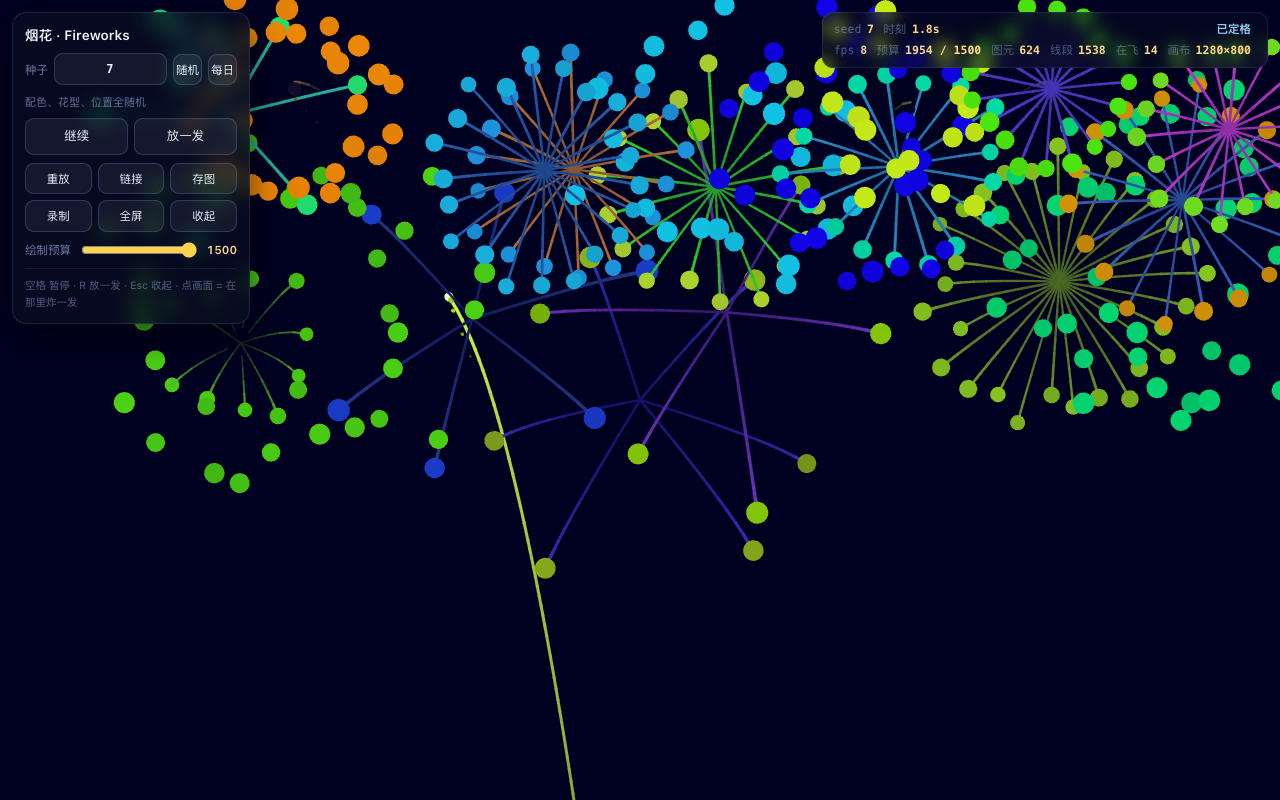
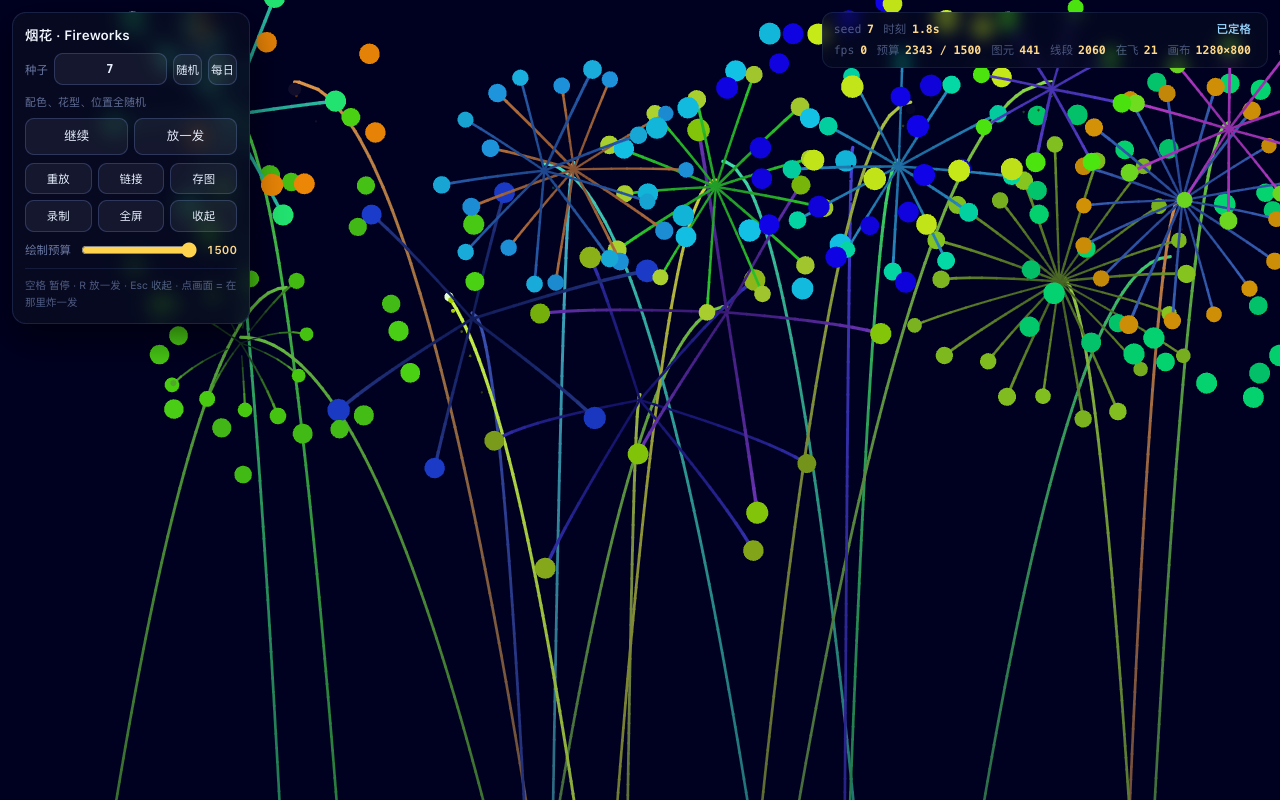
fix: 上升尾迹别在爆开那一刻抹掉 —— 只收爆点粒子，尾迹照旧挂着慢慢熄
上一版把发射尾迹的 fadeTime 从 3.4s 切成 0.35s，观感成了"一爆炸尾迹就没了"。
那道烟迹是弹体飞过的痕迹，该留着慢慢熄 —— 撤回这一处，只保留真正的"爆点粒子"
那两处改动（火花/余烬寿命收短、删掉"爆炸后继续撒余烬"）。

- src/firework.js: 去掉 burst() 里那句 this.trail.fadeTime = 0.35；理由写进注释
  （试过、不好，别再改回去）
- tools/render_smoke.js: 密度自检的口径改成 show.lastGeos（折线按**段数**算，与预算
  和 HUD 一致）—— 之前量的是 frameGeos.length（图元**个数**），两条折线能差二三十倍，
  文档表里的数字和 HUD 对不上。峰值门槛随之放宽到 1.2 倍（60 秒里的单帧最大值抖动大，
  均值仍要求 1.5 倍）
- docs/design.md: 预算表换成段数口径实测（450 → 均值 218 / 峰值 991）；「余韵别拖
  太久」改成两处改动 + 一段"唯一故意留着的是发射尾迹"；同一时刻对照表更新（改后：
  5 尾迹 + 1 余烬、火花 0）；代价改成"元素 37 → 30 个但每发更大，绘制开销没变低"
- docs/preview/ui.png: 保留尾迹后重拍（--step 110，炸开正盛 + 升空尾迹都在）

diff --git a/tools/render_smoke.js b/tools/render_smoke.js
@@ -71,7 +71,12 @@ for (const r of rows) {
 
 /* ------------------------------------------------ 1.5) 绘制预算真的会改变画面密度 */
 
-/** 跑一段，返回图元峰值与均值。 */
+/**
+ * 跑一段，返回"绘制开销"的峰值与均值。
+ * 口径必须是 show.lastGeos（折线按**段数**算）而不是 frameGeos.length（那是图元
+ * **个数**）—— 预算与 HUD 的「预算」一行用的都是段数口径，两条折线能差出二三十倍，
+ * 之前这里量错了对象，表里的数字和 HUD 对不上。
+ */
 function densityOf(budget, secs) {
   const show = new FW.show.Show(924, 691, new FW.rng.Random(7), { maxGeos: budget });
   FW.show.build(show);
@@ -79,8 +84,8 @@ function densityOf(budget, secs) {
   let peak = 0, sum = 0;
   for (let i = 0; i < n; i++) {
     show.step(i === 0 ? 0 : 1 / 60);
-    peak = Math.max(peak, show.frameGeos.length);
-    sum += show.frameGeos.length;
+    peak = Math.max(peak, show.lastGeos);
+    sum += show.lastGeos;
   }
   return { peak, avg: sum / n };
 }
@@ -92,7 +97,9 @@ const budgetProblems = [];
 if (!(big.avg > small.avg * 1.5)) {
   budgetProblems.push(`调大预算没让画面变密：均值 ${small.avg.toFixed(0)} -> ${big.avg.toFixed(0)}`);
 }
-if (!(big.peak > small.peak * 1.4)) {
+// 峰值只要求"明显更高"：它是 60 秒里的单帧最大值，两种子撞在一起齐射就窜一下，
+// 单种子抖动大（实测 1.3~1.6 倍）；均值才是稳定的信号（1.5 倍以上）。
+if (!(big.peak > small.peak * 1.2)) {
   budgetProblems.push(`调大预算没让峰值变高：${small.peak} -> ${big.peak}`);
 }
 if (!(small.avg > 0)) budgetProblems.push('预算 450 时画面是空的');

diff --git a/dist/fireworks.html b/dist/fireworks.html
@@ -979,10 +979,8 @@ setTimeout(function () {
   Firework.prototype.burst = function () {
     this.phase = 'burst';
     this.rocket.alive = false;              // 弹体到此为止（尾迹不再喂点，自己熄灭）
-    // 上升尾迹的默认 fadeTime 是 3.4s（够盖住 1.5s 的上升段，整条拖尾都能看见），
-    // 但那意味着爆完之后天上还挂着一条慢慢熄的尾迹。这里一爆就把它切成快熄：
-    // 于是"炸开之后大约半秒，这一发就什么都不剩了"。
-    this.trail.fadeTime = 0.35;
+    // 上升尾迹**照旧挂着慢慢熄**（Trail 默认 fadeTime 3.4s）：那是弹体留下的一道烟迹，
+    // 是这一发"来过"的痕迹，别在爆开那一刻把它抹掉（试过切成 0.35s，观感像尾迹突然消失）。
     var rng = this.rng, spec = this.spec, pal = this.palette;
     var count = (this.count !== null) ? this.count : rng.randint(spec.count[0], spec.count[1]);
     // 画布太满就少炸几颗，别把帧率拖垮

diff --git a/docs/index.html b/docs/index.html
@@ -979,10 +979,8 @@ setTimeout(function () {
   Firework.prototype.burst = function () {
     this.phase = 'burst';
     this.rocket.alive = false;              // 弹体到此为止（尾迹不再喂点，自己熄灭）
-    // 上升尾迹的默认 fadeTime 是 3.4s（够盖住 1.5s 的上升段，整条拖尾都能看见），
-    // 但那意味着爆完之后天上还挂着一条慢慢熄的尾迹。这里一爆就把它切成快熄：
-    // 于是"炸开之后大约半秒，这一发就什么都不剩了"。
-    this.trail.fadeTime = 0.35;
+    // 上升尾迹**照旧挂着慢慢熄**（Trail 默认 fadeTime 3.4s）：那是弹体留下的一道烟迹，
+    // 是这一发"来过"的痕迹，别在爆开那一刻把它抹掉（试过切成 0.35s，观感像尾迹突然消失）。
     var rng = this.rng, spec = this.spec, pal = this.palette;
     var count = (this.count !== null) ? this.count : rng.randint(spec.count[0], spec.count[1]);
     // 画布太满就少炸几颗，别把帧率拖垮

diff --git a/src/firework.js b/src/firework.js
@@ -78,10 +78,8 @@
   Firework.prototype.burst = function () {
     this.phase = 'burst';
     this.rocket.alive = false;              // 弹体到此为止（尾迹不再喂点，自己熄灭）
-    // 上升尾迹的默认 fadeTime 是 3.4s（够盖住 1.5s 的上升段，整条拖尾都能看见），
-    // 但那意味着爆完之后天上还挂着一条慢慢熄的尾迹。这里一爆就把它切成快熄：
-    // 于是"炸开之后大约半秒，这一发就什么都不剩了"。
-    this.trail.fadeTime = 0.35;
+    // 上升尾迹**照旧挂着慢慢熄**（Trail 默认 fadeTime 3.4s）：那是弹体留下的一道烟迹，
+    // 是这一发"来过"的痕迹，别在爆开那一刻把它抹掉（试过切成 0.35s，观感像尾迹突然消失）。
     var rng = this.rng, spec = this.spec, pal = this.palette;
     var count = (this.count !== null) ? this.count : rng.randint(spec.count[0], spec.count[1]);
     // 画布太满就少炸几颗，别把帧率拖垮

diff --git a/docs/design.md b/docs/design.md
@@ -23,16 +23,18 @@ canvas 有 `stroke()` + `lineCap/lineJoin = round`，于是一条真实轨迹就
 `Show` 每帧统计**实际绘制开销**（折线按段数、圆点各算 1），默认 450。它是**画面容量**：空着就
 多发、每发更大；满了就少发、每发更小 —— 同时作用于"每发多少颗"和"多久放一发"。
 
-实测（默认预算、60 秒，三个种子取平均）：
+实测（60 秒、三个种子取平均，口径 = 折线按**段数**算，与 HUD 的「预算」一行一致）：
 
-| 预算 | 图元均值 | 图元峰值 |
+| 预算 | 绘制开销均值 | 峰值 |
 | --- | --- | --- |
-| 450（默认） | 53 | 191 |
-| 900 | 98 | 296 |
-| 1400 | 119 | 416 |
+| 450（默认） | 218 | 991 |
+| 900 | 366 | 1077 |
+| 1400 | 465 | 1561 |
 
-节流是启发式的（只影响**后续**发射的火花数），所以单帧峰值会超过预算，实测约 1.2~2 倍 ——
-齐射是瞬时的。HUD 的「预算」一行就是 `上一帧 / 上限`，所以看得出来滑块在起什么作用。
+节流是启发式的（只影响**后续**发射的火花数），所以单帧峰值会明显超过预算 —— 齐射是瞬时的，
+450 那一档实测能到 2 倍上下。HUD 的「预算」一行就是 `上一帧 / 上限`，所以看得出来滑块在起什么
+作用。（自检里曾经量错对象：数的是图元**个数**而不是段数，两条折线能差二三十倍，表里的数字因此
+和 HUD 对不上；现在口径统一了。）
 
 > 历史坑：早先这层节流只会往**下**压（`density()` 最大 1.0），于是把预算调到 1500 也毫无变化
 > —— 因为整个秀是发射节奏限流的。改动的来龙去脉见 `npm run baseline` 的说明与 git 历史。
@@ -41,27 +43,29 @@ canvas 有 `stroke()` + `lineCap/lineJoin = round`，于是一条真实轨迹就
 
 阻尼模型下"弹开"其实很快：位置 r(t) = (v₀/k)(1 − e^{−kt})，时间常数 1/drag ≈ 0.2~0.5s，
 也就是**撑到半径只要零点几秒**。原来 `life` 给了 1.9~3.8s，后面那两三秒全是火花下坠 + 拖尾
-的余韵 —— 结果是画面里常年压着前几发的残影。清掉它一共动了三处，第三处才是大头：
+的余韵 —— 结果是画面里常年压着前几发的残影。清掉它动了三处，第三处才是大头：
 
-| 残留 | 原来 | 现在 |
+| | 原来 | 现在 |
 | --- | --- | --- |
 | 火花寿命 `life`（`data.js`） | 1.9~3.8s | **1.05~2.1s**；`trail` 同比收短 |
 | 余烬寿命（`elements.js` / `firework.js`） | 0.3~1.3s | **0.25~0.85s** |
-| 爆炸后继续撒余烬（`firework.js`） | 11 颗/秒，持续到发射尾迹淡完 —— **全部余烬的 61% 来自这里** | 删除 |
-| 发射尾迹 `fadeTime`（`trails.js` 默认 3.4s） | 爆完之后天上还挂着一条慢慢熄 | 爆开瞬间切成 **0.35s** |
+| "爆炸后继续撒火星"（`firework.js`） | 11 颗/秒，一直撒到发射尾迹淡完 —— **全部余烬的 61% 来自这里** | 删除 |
 
-实测每发"炸点粒子"从炸开到最后一颗粒子消失：p50 **3.54s → 2.00s**、p90 4.55s → 2.48s、
-max 4.83s → 2.80s。更直观的是同一时刻的对照（seed 937566、1470×734、约 21.6s，就是有人
-截图说"烟花都爆完了粒子还在"的那一刻）：
+**唯一故意留着的**是发射尾迹：它不属于"爆点粒子"，而是弹体飞过留下的一道烟迹，挂在天上慢慢熄
+（`Trail` 的 `fadeTime` 3.4s）。试过爆开瞬间把它切成 0.35s，观感像"尾迹突然消失"，退回去了。
 
-| | 图元 | 在飞 | 屏幕上的元素 |
+实测每发"爆点粒子"从炸开到最后一颗粒子消失：p50 **3.54s → 2.00s**、p90 4.55s → 2.48s、
+max 4.83s → 2.80s。更直观的是同一时刻的对照（seed 937566、1470×734、约 21.6s，就是截图里
+"烟花都爆完了粒子还在"的那一刻）：
+
+| | 绘制开销 | 在飞 | 屏幕上的元素 |
 | --- | --- | --- | --- |
 | 改前 | 150 | 3（都已爆完） | 3 尾迹 + 21 火花 + **26 余烬** |
-| 改后 | **5** | 0 | 5 颗上升段余烬 |
+| 改后 | 93 | 5（都已爆完） | 5 尾迹 + 1 余烬、**火花 0** |
 
-代价有两个，都是有意的：下坠距离变短、**弧线没以前明显**（想要弧度回来就加大 `gravity`）；
-画面同一时刻的占用降了约三成（图元/帧 293 → 189，稳态元素 63 → 39），发射节奏的容量反馈会
-自己多发几发（38 → 43 发/分钟），觉得太空就把「绘制预算」往上拖。旋钮都在 `src/data.js` 的
+代价与收益：**下坠距离变短、弧线没以前明显**（想要弧度回来就加大 `gravity`）；同一时刻活着
+的元素从 37 降到 30 个，但每发更大（容量反馈把省下的开销换成了更粗的爆），所以绘制开销并没有
+变低（450 那档 184 → 218），发射节奏略慢一点（47 → 42 发/分钟）。旋钮都在 `src/data.js` 的
 `STYLES` 表里（`life` / `trail` / `ember`）。
 
 ## 固定 1/60 步长：为了"同一个种子就是同一场"
